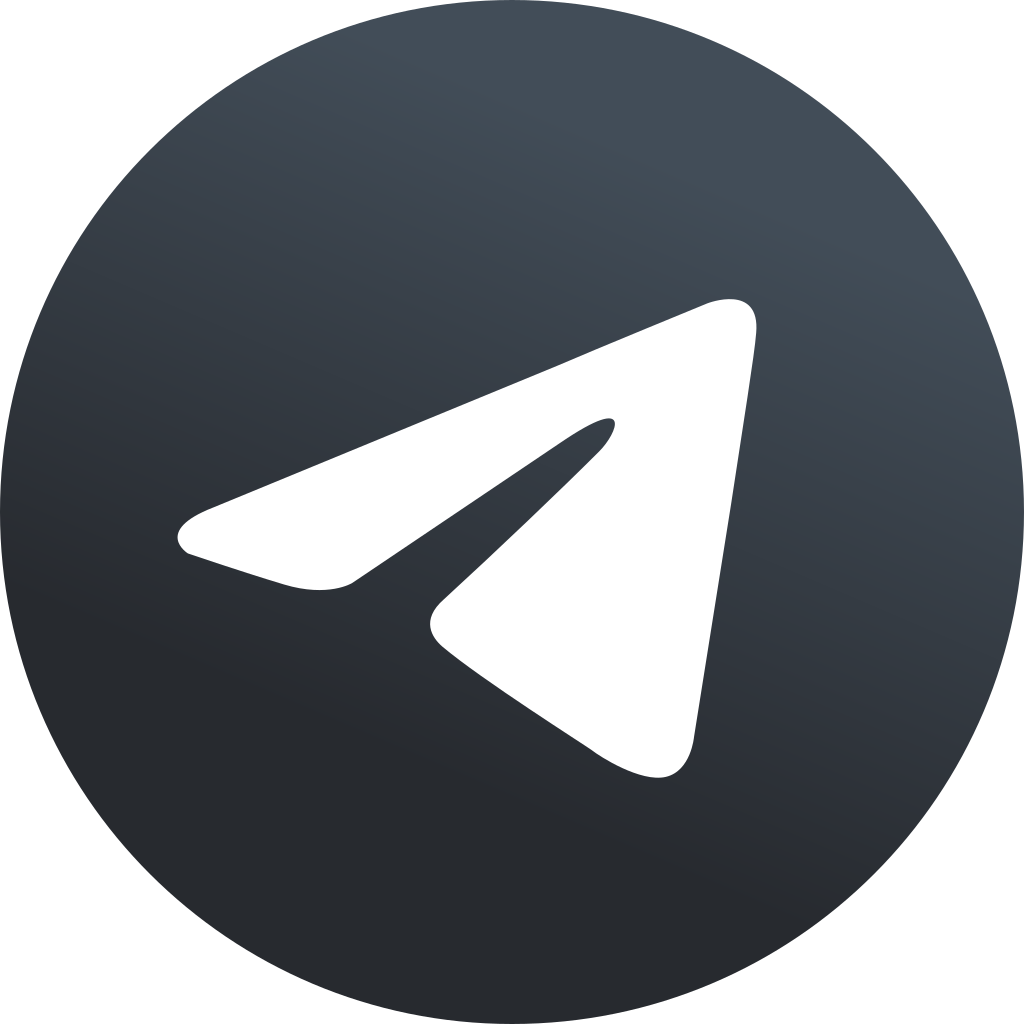
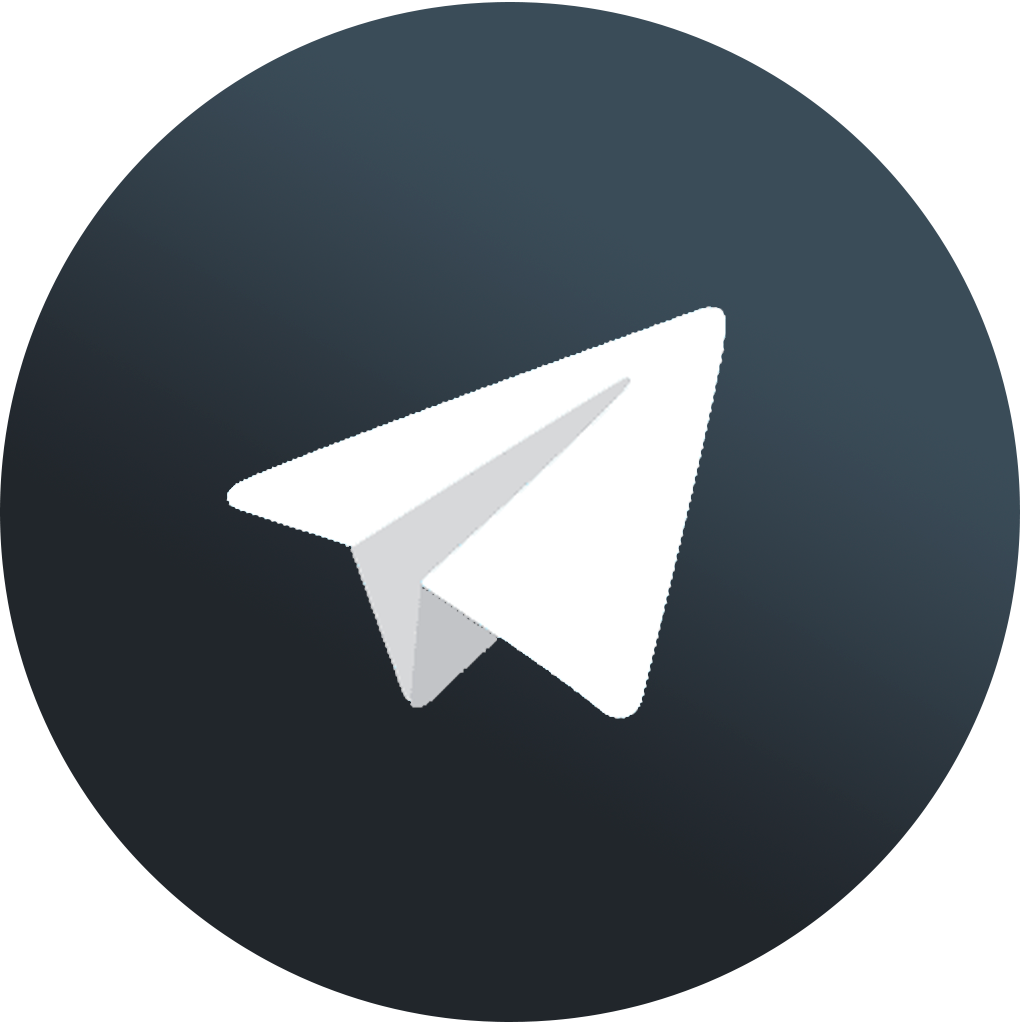
Add files via upload
Added icons (contacts) and slider in details of portfolio projects.

diff --git a/index.html b/index.html
@@ -6,7 +6,7 @@
     <link rel="stylesheet" href="style/style.css">
     <link rel="stylesheet" href="style/stylePopup.css">
     <link rel="stylesheet" href="style/stylePopup_Portfolio.css">
-    <meta name="viewport" content="width=device-width">
+    <meta name="viewport" content="width=device-width, initial-scale=1">
 </head>
 <body>
 <div class="wrapper">
@@ -21,15 +21,24 @@
                     <li>Адрес: Украина, г.Харцызск</li>
                 </ul>
                 <div class="contacts-social-icons">
-                    <!-- <div class="vk-icon icon">
-                        <img src="images/vk.png" alt="vk">
+                    <div class="github-icon icon">
+                        <a class="contact-link" href="https://github.com/samolevich2017" target="_blank">
+                            <img src="images/github.png" alt="github">
+                        </a>
                     </div>
-                    <div class="inst-icon icon">
-                        <img src="images/inst.png" height="50px" width="50px" alt="inst">
-                    </div> -->
                     <div class="telegram-icon icon">
                         <a class="contact-link" href="https://t.me/samolevich_ivan" target="_blank">
                             <img src="images/telegram.png" alt="telegram">
+                        </a>
+                    </div>
+                    <div class="vk-icon icon">
+                        <a class="contact-link" href="https://vk.com/ivan_samolevich" target="_blank">
+                            <img src="images/vk.png" alt="vk">
+                        </a>
+                    </div>
+                    <div class="instagram-icon icon">
+                        <a class="contact-link" href="https://www.instagram.com/samolevichivan/" target="_blank">
+                            <img src="images/instagram.png" alt="instagram">
                         </a>
                     </div>
                 </div>
@@ -192,7 +201,14 @@
             <a href="#" class="popup_close close-popup">X</a>
             <div class="block_about_project">
                 <div class="block_images">
-                    <img src="images/portfolio/Процессы(1_WF).JPG" alt="">
+                    <div class="images-item">
+                        <img src="images/portfolio/Процессы(1_WF).JPG" alt="">
+                    </div>
+                    <div class="images-item">
+                        <img src="images/portfolio/СТО(1_WPF).JPG" alt="">
+                    </div>
+                    <a href="#" class="btnLeft" onclick="previousSlide()">&#10094;</a>
+                    <a href="#" class="btnRight" onclick="nextSlide()">&#10095;</a>
                 </div>
                 <div class="block_github">
                     <h3>GitHub Repository: <a href="#" class="github_link" target="_blank"><i>process-managed</i></a></h3>

diff --git a/js/portfolio_popups.js b/js/portfolio_popups.js
@@ -1,10 +1,68 @@
 
 let popup_portfolio1 = document.getElementById("popup_portfolio1");
 
+
 $(document).ready(function () {
 
-    // клик по кнопке "Подробно" о проекте
+    // клик по кнопке "Подробно" о первом проекте
     $(".portfolio-detail").on('click', function () {
+
         popupOpen(popup_portfolio1);
+
+        // скрытие стрелок переключения, если это необходимо
+        fadeArrows();
+
     });
+
+
 });
+
+
+
+/* Устанавливаем индекс слайда по умолчанию */
+let slideIndex = 1;
+showSlides(slideIndex);
+
+/* Увеличиваем индекс на 1 — показываем следующий слайд*/
+function nextSlide() {
+    showSlides(slideIndex += 1);
+}
+
+/* Уменьшает индекс на 1 — показываем предыдущий слайд*/
+function previousSlide() {
+    showSlides(slideIndex -= 1);
+}
+
+/* Устанавливаем текущий слайд */
+function currentSlide(n) {
+    showSlides(slideIndex = n);
+}
+
+/* Функция перелистывания */
+function showSlides(n) {
+    let i;
+    let slides = document.getElementsByClassName("images-item");
+
+    if (n > slides.length) {
+        slideIndex = 1
+    }
+    if (n < 1) {
+        slideIndex = slides.length
+    }
+
+    /* Проходим по каждому слайду в цикле for */
+    for (let slide of slides) {
+        slide.style.display = "none";
+    }
+    slides[slideIndex - 1].style.display = "block";
+}
+
+// функция скрытия кнопок для перелистывания слайда, в случае
+// отсутствия картинок, либо когда их кол-во не превышает 1
+function fadeArrows() {
+    let images_count = document.querySelectorAll('.images-item').length;
+    if(images_count <= 1){
+        $(".btnRight").css('display', 'none');
+        $(".btnLeft").css('display', 'none');
+    }
+}

diff --git a/style/stylePopup_Portfolio.css b/style/stylePopup_Portfolio.css
@@ -13,12 +13,54 @@
     display: flex;
     justify-content: center;
     height: 280px;
+    max-height: 280px;
     margin-bottom: 25px;
 }
 
-.block_images img{
+.btnLeft,
+.btnRight{
     position: absolute;
-    width: 80%;
+    text-decoration: none;
+    padding: 10px;
+    background-color: rgba(75, 75, 75, 0.59);
+    color: #FFFDFF;
+    top: 50%;
+    transform: translateY(-50%);
+    margin: 15px;
+}
+
+.btnLeft:hover,
+.btnRight:hover{
+    background-color: rgba(75, 75, 75);
+}
+
+.btnLeft{
+    left: 0;
+}
+
+.btnRight{
+    right: 0;
+}
+
+/* Анимация слайдов */
+.block_images .images-item {
+    position: absolute;
+    height: 100%;
+    animation-name: fade;
+    animation-duration: 1.5s;
+}
+
+@keyframes fade {
+    from {
+        opacity: 0.4
+    }
+    to {
+        opacity: 1
+    }
+}
+
+.images-item img{
+    object-fit: cover;
     height: 100%;
 }
 
@@ -40,4 +82,16 @@
 
 .block_description{
 
+}
+
+.slider{
+    border: #000 solid 2px;
+    margin: 0 auto;
+    max-width: 100%;
+}
+
+.slider-line{
+    display: flex;
+    justify-content: center;
+    transition: all 0.8s ease;
 }

diff --git a/style/style.css b/style/style.css
@@ -68,14 +68,17 @@ body{
 
 .contacts-social-icons{
     display: flex;
-    margin-bottom: 25px;
+    margin-bottom: 15px;
+    flex: 0 0 15px;
     justify-content: center;
+    margin-left: -10px;
 }
 
 .contacts-social-icons .icon{
     position: relative;
     height: 45px;
     width: 45px;
+    margin: 10px;
 }
 
 
